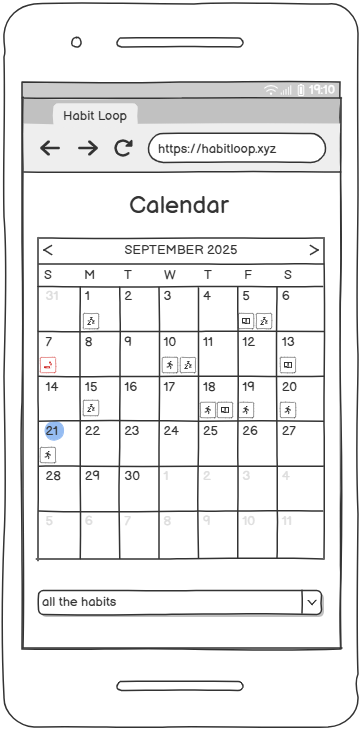
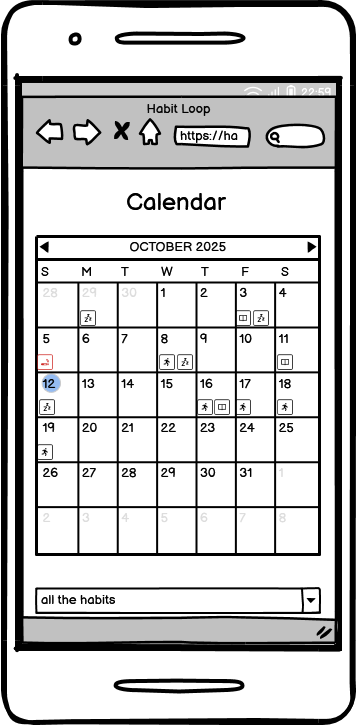
Added some diagrams and mockups

diff --git a/documentation/diagrams/UseCase.md b/documentation/diagrams/UseCase.md
@@ -1,0 +1,153 @@
+# 📘 Диаграмма вариантов использования — HabitLoop
+
+<img src="./images/UseCaseDiagram.png" width="60%" />
+
+## 📚 Глоссарий
+
+| Термин                     | Определение                                                                 |
+|---------------------------|------------------------------------------------------------------------------|
+| Пользователь              | Зарегестрированный человек, использующий приложение                          |
+| Привычка               | Привычка, которую пользователь отслеживает через сервис |
+| Заметка              | Дополнительная запись к конкретному факту соблюдения привычки                      |
+| Серия                   | Числовое выражение последовательного и ежедневного соблюдения привычки         |
+| Календарь привычек                   | Календарь, на котором отмечено выполнение привычек в виде иконок         |
+| ФИП                   | Факт исполнения отслеживаемой привычки         |
+
+
+## 📑 Содержание
+
+1 Актёры  
+2 Варианты использования  
+2.1 Войти в свою учётную запись  
+2.2 Зарегистрироваться  
+2.3 Просмотреть список привычек
+2.4 Просмотреть календарь привычек 
+2.5 Добавить привычку
+2.6 Удалить привычку
+2.7 Отметить ФИП 
+2.8 Добавить цель
+2.9 Выйти из учётной записи
+
+
+## 🎭 1 Актёры
+
+| Актёр                     | Описание                                                                    |
+|---------------------------|------------------------------------------------------------------------------|
+| Пользователь              | Зарегестрированный человек, использующий приложение                                            |
+
+
+## 2 Варианты использования
+
+### 2.1 Войти в свою учётную запись
+
+**Описание:** Позволяет пользователю авторизоваться.  
+**Предусловия:** Выбран способ "Sign in".
+
+**Основной поток:**
+- Приложение отображает окно входа;
+- Пользователь вводит email и пароль;
+- Приложение проверяет данные;
+- Присваивает статус "зарегистрирован";
+- Переход на главный экран.
+
+**Альтернативный поток А1:**
+- Неверный пароль → сообщение об ошибке;
+- Пользователь может повторить попытку или отменить.
+
+### 2.2 Зарегистрироваться
+
+**Описание:** Создание новой учётной записи.  
+**Предусловия:** Выбран способ "Sign up".
+
+**Основной поток:**
+- Приложение отображает окно регистрации;
+- Пользователь вводит email и пароль;
+- Приложение проверяет уникальность email;
+- Создаёт профиль;
+- Присваивает статус "зарегистрирован";
+- Переход на главный экран.
+
+**Альтернативный поток А2:**
+- Email уже используется → сообщение об ошибке;
+- Запрос нового email.
+
+
+### 2.3 Просмотреть список привычек
+
+**Описание:** Отображение всех отслеживаемых привычек.  
+**Предусловия:** Пользователь вошёл в приложение.
+
+**Основной поток:**
+- Приложение загружает список привычек;
+- Отображает их в виде записей;
+- Если список пуст — выполняется А3.
+
+**Альтернативный поток А3:**
+- Приложение сообщает об отсутствии отслеживаемых привычек.
+
+
+### 2.4 Просмотреть календарь привычек
+
+**Описание:** Отображение календаря привыек.  
+**Предусловия:** Пользователь выбрал пункт меню "календарь".
+
+**Основной поток:**
+- Приложение получает визуализацию календаря привычек;
+- На каждом дне иконками отображаются выполненные привычки;
+- При выборе конкретной привычки — выполняется А4.
+
+**Альтернативный поток А4:**
+- На календаре отображается только одна выбранная привычка. Если в этот день созданна пометка, она отмечается значком **'*'**. При нажатии на день с пометкой — выполняется А5.
+
+**Альтернативный поток А5:**
+- Появляется всплывающее окно ФИБ с текстовой пометкой.
+
+### 2.5 Добавить привычку
+
+**Описание:** Добавление новой привычки для отслеживания.  
+**Предусловия:** Пользователь авторизован.
+
+**Основной поток:**
+- Пользователь нажимает "add new habbit";
+- Пользователь выбирает название привычки, её описание, иконку, выбирает плохая ли это привычка и нужно ли сервису вести учет серии и наэимает "save";
+- Прилоение возвращается на список отслеживаемых привычек.
+
+### 2.6 Удалить привычку
+
+**Описание:** Удаление отслеживаемой привычки.  
+**Предусловия:** Привычка уже добавлена.
+
+**Основной поток:**
+- Пользователь нажимает "Select";
+- Пользователь выбирает привычку и нажимет кнопку "delete";
+- Обновляется список привычек.
+
+### 2.7 Отметить ФИП
+
+**Описание:** Пользователь отмечает ФИП.  
+**Предусловия:** Открыт список отслеживаемых привычек.
+
+**Основной поток:**
+- Пользователь открывает выпадающее окно выбранной привычки;
+- Пользователь добавляет заметку (опционально);
+- Пользователь нажимает "+";
+- ФИП отмечен и учтен в серии (если она ведется).
+
+### 2.8 Добавить цель
+
+**Описание:** Создание годовой цели.  
+**Предусловия:** Пользователь создал привычки.
+
+**Основной поток:**
+- Пользователь нажимает на "add goal" на странице профиля;
+- В появившеся окне пользователь выбирает привычку и значение;
+- Пользователь нажимат кнопку "save".
+
+### 2.9 Выйти из учётной записи
+
+**Описание:** Завершение сессии.  
+**Предусловия:** Пользователь нажал "Log out".
+
+**Основной поток:**
+- Приложение завершает сессию;
+- Возвращает пользователя на экран входа.

diff --git a/documentation/diagrams/Class.md b/documentation/diagrams/Class.md
@@ -1,0 +1,11 @@
+# Диаграмма классов
+
+<img src="./images/ClassDiagram.png" width="80%" />
+
+| Термин                     | Определение                                                                 |
+|---------------------------|------------------------------------------------------------------------------|
+| User                   | Зарегестрированный пользователь сервиса         |
+| Habit               | Привычка, которую пользователь отслеживает через сервис |
+| Streak                   | Числовое выражение последовательного и ежедневного соблюдения привычки         |
+| HabitRecord                   | Факт исполнения отслеживаемой привычки         |
+| Goal                   | Годовая цель по выбранной привычке         |

diff --git a/documentation/diagrams/Activity.md b/documentation/diagrams/Activity.md
@@ -1,0 +1,20 @@
+# 📊 Диаграммы активностей — TripSpark
+
+## 📑 Содержание
+
+1. [Добавление привычки](#1)
+2. [Учет ФИП](#2)
+3. [Просмотр календаря](#3)
+
+
+### 1. Добавление привычки<a name="1"></a>
+
+<img src="./images/ActivityAdd.png" width="60%" />
+
+### 2. Учет ФИП<a name="2"></a>
+
+<img src="./images/ActivityFIP.png" width="60%" />
+
+### 3. Просмотр календаря<a name="3"></a>
+
+<img src="./images/ActivityCalendar.png" width="60%" />

diff --git a/documentation/diagrams/Sequence.md b/documentation/diagrams/Sequence.md
@@ -1,0 +1,19 @@
+# Диаграммы последовательностей
+
+# Содержание
+1. [Добавление привычки](#1)
+2. [Учет ФИП](#2)
+3. [Просмотр календаря](#3)
+
+
+### 1. Добавление привычки<a name="1"></a>
+
+<img src="./images/SequenceAdd.png" width="80%" />
+
+### 2. Учет ФИП<a name="2"></a>
+
+<img src="./images/SequenceFIP.png" width="80%" />
+  
+### 3. Просмотр календаря<a name="3"></a>
+
+<img src="./images/SequenceCalendar.png" width="80%" />

diff --git a/documentation/diagrams/State.md b/documentation/diagrams/State.md
@@ -1,0 +1,15 @@
+# Диаграмма состояний    
+
+
+### 1. Добавление привычки<a name="1"></a>
+
+<img src="./images/StateAdd.png" width="90%" />
+
+### 2. Учет ФИП<a name="1"></a>
+
+<img src="./images/StateFIP.png" width="90%" />
+
+### 3. Просмотр календаря<a name="1"></a>
+
+<img src="./images/StateCalendar.png" width="90%" />
+

diff --git a/documentation/diagrams/Deployment.md b/documentation/diagrams/Deployment.md
@@ -1,0 +1,4 @@
+# Диаграмма развертывания
+
+
+<img src="./images/Deployment.png" width="80%" />

diff --git a/documentation/diagrams/Component.md b/documentation/diagrams/Component.md
@@ -1,0 +1,4 @@
+# Диаграмма компонентов 
+
+
+<img src="./images/component.png" width="100%" />
